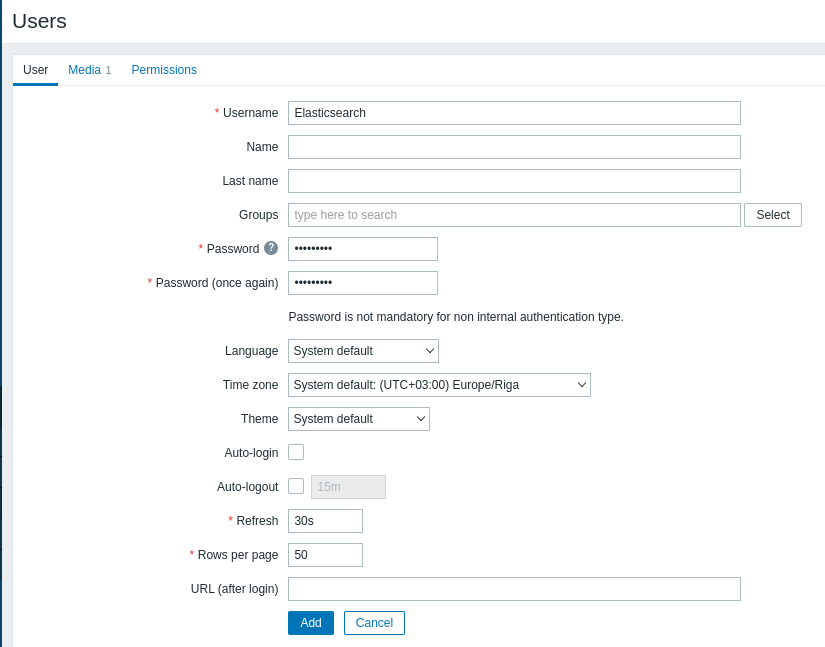
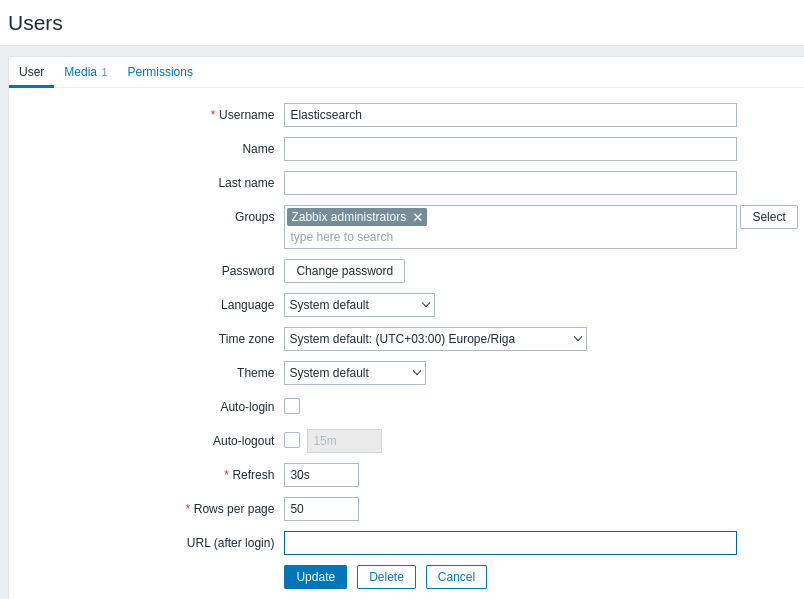
Initial commit

Changed region(s): [[0.1866, 0.1503, 0.995, 0.9917], [0.0, 0.0, 0.2488, 0.1503]]

diff --git a/README.md b/README.md
@@ -1,6 +1,6 @@
 # Zabbix Elasticsearch Lab
 
-This repo will provide a basic setup for testing Zabbix 6.4.latest in combination with Elasticsearch 8.13.0. You need docker-compose for this lab, this is however beyond the scope of this lab.
+This repo will provide a basic setup for testing Zabbix 6.4.latest in combination with Elasticsearch 8.13.0. You need docker-compose for this lab, the setup of docker-compose is however beyond the scope of this lab.
 
 Disclaimer: This is a very basic lab to test the Zabbix Elasticsearch Mediatype. This lab is not for production purposes, it uses default configurations and lacks security. Local storage is not configured in the docker-compose file, so after stopping the lab, all configuration will be lost unless you apply changes to the docker-compose file.
 
@@ -33,12 +33,14 @@ As you can see, no password is required, this means security is not enabled in E
    - Enter a random password
    - Click the `Media` tab and `Add` to add a mediatype
    - Enter `Elastic` in `Send to` and click `Add`
-   - Click the `Permissions` tab and add Role `Admin role`
+   - Click the `Permissions` tab and add Role `Super Admin role`
    - Click `Add` to add the user
 
-![Add User](./screenshots/add_user1.png.png)
-![Add User Mediatype](./screenshots/add_user2.png.png)
-![Add User Permissions](./screenshots/add_user3.png.png)
+![Add User](./screenshots/add_user1.png)
+![Add User Mediatype](./screenshots/add_user2.png)
+![Add User Permissions](./screenshots/add_user3.png)
+
+>Note: A separate users is created to make sure updates of problems will also be send to Elasticsearch. In this lab, Role Supper Admin and User group Zabbix Administrators is used for this user, best practice is to create a separate role and User group with only read rights to hostgroups needed for this Mediatype.
 
 4. Create the trigger actions:
    - Browse to `Alerts` -> `Actions` -> `Trigger actions` and click `Create action`
@@ -46,7 +48,40 @@ As you can see, no password is required, this means security is not enabled in E
    - Under Conditions click `Add`
    - Select type `Trigger severity`, Operator `is greater then or equals` and Severity `Not classified`
    - Click the `Operations` tab and under `Operations` click `Add`
+   - In the `Send to users` field, fill in the `Elasticsearch` user and click `Add`
+   - Click `Add` next to Recovery operations and select `Notiry all involved` and click `Add`
+   - Click `Add` next to Recovery operations and select `Notiry all involved` and click `Add`
+   - Leave all other fields default and click `Add` to add the Elasticsearch action
 
+![Add new action](./screenshots/trigger_actions1.png)
+![Add Operation](./screenshots/trigger_actions2.png)
+![Add Recovery and Update operation](./screenshots/trigger_actions3.png)
+![Add created action](./screenshots/trigger_actions4.png)
 
+5. Test your Mediatype
+   - Browse to `Alerts` -> `Media types` and next to the Elasticsearch Mediatype click `Test`
+   - Click `Test` and the Mediatype test should be succesfull, in the Response you will see a string which is the Document ID created in Elasticsearch
 
-Note: A separate users is created to make sure updates of problems will also be send to Elasticsearch. In this lab Role Admin and User group Zabbix Administrators is used for this user, best practice is to create a separate role and User group with only read rights to hostgroups needed for this Mediatype.
+![Test Mediatype](./screenshots/test_mediatype.png)
+
+6. Show your trigger actions in Elasticsearch
+   - Browse to Kibana at http://localhost:5601
+   - You will be presented a "Welcome to Elastic" screen
+   - You don't need to add integrations now, click `Explore my own`
+   - Click the top left menu Button and scroll down and click `Stack Management`
+   - Under Kibana click `Data Views` and `Create data view`
+   - Fill in Name `Zabbix Events`, Index pattern `zabbix_events*`.
+   - Make sure Timestamp field matches `@timestamp` and click `Save data view to Kibana`
+   - You can now browse to `Analytics` -> `Discover` to see your Trigger actions generated in Elasticsearch
+   - By default this screen shows documents created in the last 15 minutes, if you don't see any data, change the scope of your view in the drop down top left
+   - You can now see your Trigger actions send from Zabbix. The document generated with the test is almost empty. 
+
+![Elastic Stack Management](./screenshots/Elastic_1.png)
+![Elastic Create new Data View](./screenshots/Elastic_2.png)
+![Elastic Create Zabbix Data View](./screenshots/Elastic_3.png)
+![Elastic Discover](./screenshots/Elastic_4.png)
+![Elastic Change timefilter](./screenshots/Elastic_5.png)
+
+You can now analyze your triggers in Elasticsearch. In the graph you will see all trigger actions present in Elastic over the selected time period. At the left collum, you can hover over all fields. If you click a field, you will be able to see the top values and with the button `Visualize` you will be able to create graphs, which you can also place on a dashboard.
+
+![Visualize](./screenshots/Elastic_5.png)
